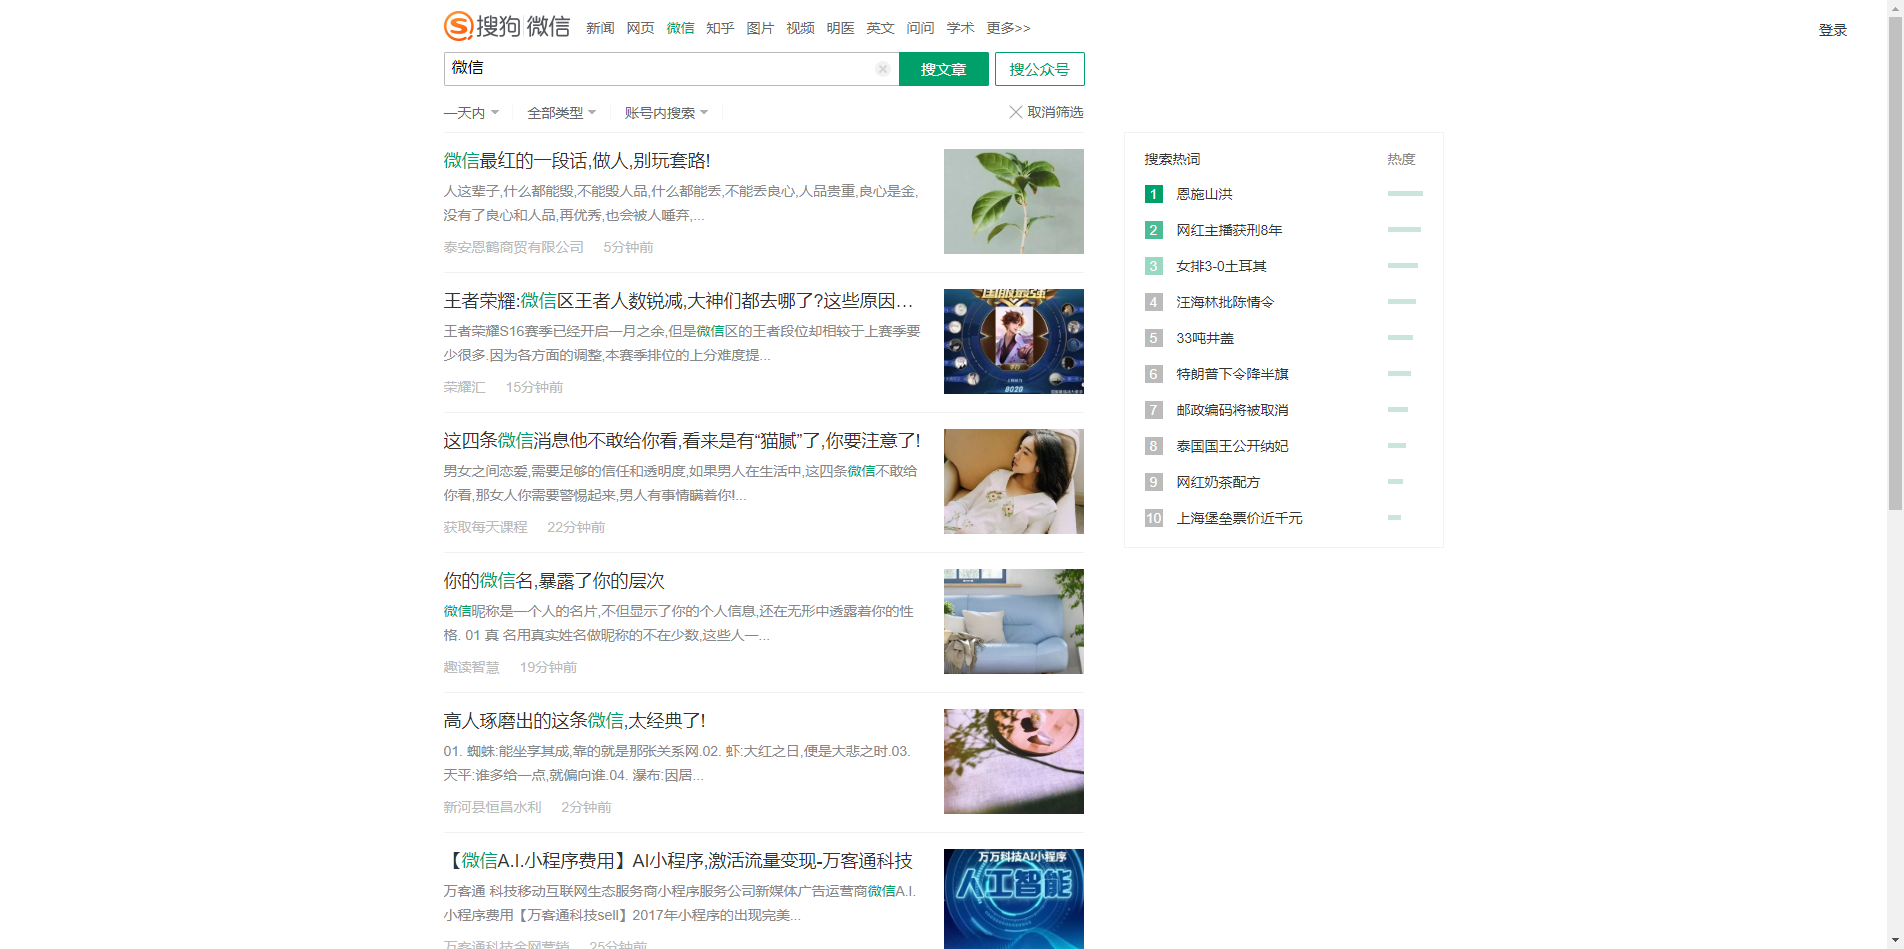
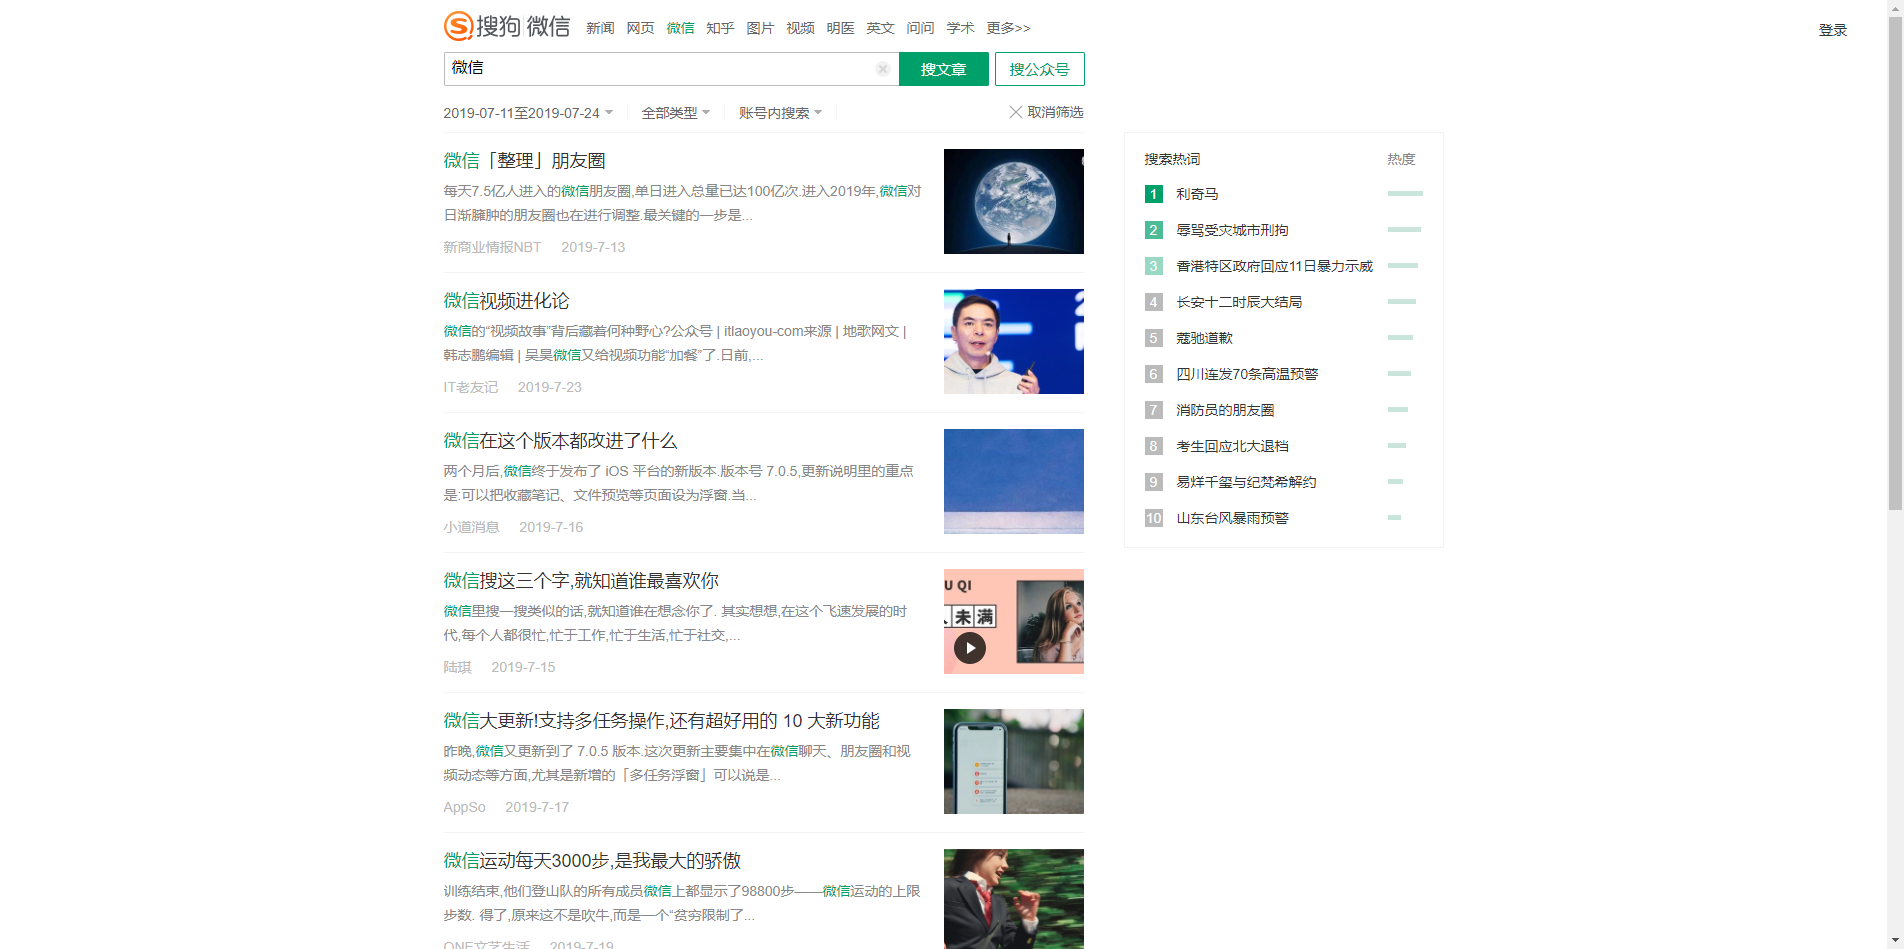
update

diff --git a/Test_Case/Test_Case_Search_Tools.py b/Test_Case/Test_Case_Search_Tools.py
@@ -59,35 +59,123 @@ class Test(unittest.TestCase):
                 # 展开时间搜索框
                 self.browser.find_element_by_xpath("//*[@id=\"time\"]").click()
                 time.sleep(1)
-                total = len(self.browser.find_elements_by_xpath("//*[@id=\"tool\"]/span[1]/div/descendant::a"))
-                j = random.randint(0, (total-1))
 
+                # 设定是选择非定义时间段还是选择自定义时间端，j = total-1为自定义，其它为非自定义
+                total = len(self.browser.find_elements_by_xpath("//*[@id=\"tool\"]/span[1]/div/descendant::a"))
+                # j = random.randint(0, (total-1))
+
+                j = total-1
                 if 0 <= j < (total-1):
                     # 选择非自定义时间段
                     self.browser.find_elements_by_xpath("//*[@id=\"tool\"]/span[1]/div/descendant::a")[j].click()
                     time.sleep(1)
 
                 elif j == (total-1):
-                    # 定义时间段： 最近一个月
-                    start_time =BasePage(self.browser)
-                    start_time.get_Every_Day(datetime.date.today() - relativedelta(months=1), datetime.date.today())
-                    date_list = start_time.get_Every_Day(datetime.date.today() - relativedelta(months=1), datetime.date.today())
-
+                    # 设定是输入还是选择，0为输入，1为选择
+                    # k = random.randint(0, 1)
+                    k = 1
                     try:
-                        # 输入自定义开始时间
-                        starttime = self.browser.find_element_by_xpath("//*[@id=\"date_start\"]")
-                        starttime.clear()
-                        starttime.send_keys(date_list[0])
+                        if k ==0:
+                            # 定义时间段： 最近一个月
+                            date_list = BasePage(self.browser)\
+                                .get_every_day(datetime.date.today() - relativedelta(months=1), datetime.date.today())
 
-                        # 输入自定义结束时间
-                        endtime = self.browser.find_element_by_xpath("//*[@id=\"date_end\"]")
-                        endtime.clear()
-                        endtime.send_keys(date_list[1])
+                            # 输入自定义开始时间
+                            starttime = self.browser.find_element_by_xpath("//*[@id=\"date_start\"]")
+                            starttime.clear()
+                            starttime.send_keys(date_list[0])
 
-                        # 点击确认按钮
-                        starttime.click()
-                        endtime.click()
-                        self.browser.find_elements_by_xpath("//*[@id=\"tool\"]/span[1]/div/descendant::a")[j].click()
+                            # 输入自定义结束时间
+                            endtime = self.browser.find_element_by_xpath("//*[@id=\"date_end\"]")
+                            endtime.clear()
+                            endtime.send_keys(date_list[1])
+
+                            # 点击确认按钮
+                            starttime.click()
+                            endtime.click()
+                            self.browser.find_elements_by_xpath("//*[@id=\"tool\"]/span[1]/div/descendant::a")[j]\
+                                .click()
+
+                        # 选择自定义时间
+                        elif k == 1:
+                            """自定义开始时间"""
+                            self.browser.find_element_by_xpath("//*[@id=\"date_start\"]").click()
+
+                            # 开始时间整个月份的xpath
+                            start_month = "/html/body/div[6]/div[2]/table/descendant::a"
+
+                            # 定义是否翻页(翻到上个月)，0为不翻页，1为翻页一次，2为翻页两次
+                            btn_prev_month = random.randint(0, 2)
+
+                            if btn_prev_month == 0:
+                                # 不翻页
+                                datelist = BasePage(self.browser).select_every_day(start_month)
+
+                                w = random.randint(0, len(datelist[1])-1)
+                                self.browser.find_elements_by_xpath(start_month)[w].click()
+
+                            elif btn_prev_month == 1:
+                                # 翻到上个月
+                                self.browser.find_element_by_xpath("/html/body/div[6]/div[1]/a[1]").click()
+                                datelist = BasePage(self.browser).select_every_day(start_month)
+
+                                w = random.randint(0, len(datelist[0])-1)
+                                self.browser.find_elements_by_xpath(start_month)[w].click()
+                                # 翻页之后，复位
+                                self.browser.find_element_by_xpath("/html/body/div[6]/div[1]/a[2]").click()
+
+                            elif btn_prev_month == 2:
+                                # 翻到上上月
+                                BasePage(self.browser).double_click("/html/body/div[6]/div[1]/a[1]")
+
+                                datelist = BasePage(self.browser).select_every_day(start_month)
+
+                                w = random.randint(0, len(datelist[0])-1)
+                                self.browser.find_elements_by_xpath(start_month)[w].click()
+                                # 翻页之后，复位
+                                BasePage(self.browser).double_click("/html/body/div[6]/div[1]/a[2]")
+
+                            """自定义结束时间"""
+                            self.browser.find_element_by_xpath("//*[@id=\"date_end\"]").click()
+
+                            # 结束时间整个月份的xpath
+                            end_month = "/html/body/div[7]/div[2]/table/descendant::a"
+
+                            # 定义是否翻页(翻到上个月)，0为不翻页，1为翻页一次，2为翻页两次
+                            btn_prev_month_end = random.randint(0, 2)
+
+                            if btn_prev_month_end == 0:
+                                # 不翻页
+                                datelist = BasePage(self.browser).select_every_day(end_month)
+
+                                w = random.randint(0, len(datelist[1])-1)
+                                self.browser.find_elements_by_xpath(end_month)[w].click()
+
+                            elif btn_prev_month_end == 1:
+                                # 翻到上个月
+                                self.browser.find_element_by_xpath("/html/body/div[7]/div[1]/a[1]").click()
+
+                                datelist = BasePage(self.browser).select_every_day(end_month)
+
+                                w = random.randint(0, len(datelist[0])-1)
+                                self.browser.find_elements_by_xpath(end_month)[w].click()
+                                # 翻页之后，复位
+                                self.browser.find_element_by_xpath("/html/body/div[7]/div[1]/a[2]").click()
+
+                            elif btn_prev_month_end == 2:
+                                # 翻到上上月
+                                BasePage(self.browser).double_click("/html/body/div[7]/div[1]/a[1]")
+
+                                datelist = BasePage(self.browser).select_every_day(end_month)
+
+                                w = random.randint(0, len(datelist[0])-1)
+                                self.browser.find_elements_by_xpath(end_month)[w].click()
+                                # 翻页之后，复位
+                                BasePage(self.browser).double_click("/html/body/div[7]/div[1]/a[2]")
+
+                            # 点击确认按钮
+                            self.browser.find_elements_by_xpath("//*[@id=\"tool\"]/span[1]/div/descendant::a")[j]\
+                                .click()
 
                     except ElementNotVisibleException:
                         # 如果开始时间大于结束时间，本次循环结束，进入下次循环
@@ -179,7 +267,7 @@ class Test(unittest.TestCase):
                 self.browser.find_element_by_xpath("//*[@id=\"search\"]").click()
                 search_tool = self.browser.find_element_by_xpath("//*[@id=\"tool\"]/span[5]/div/form/span/input")
                 search_tool.clear()
-                
+
             except ElementNotVisibleException:
                 print(self.browser.find_element_by_xpath("//*[@id=\"tool\"]/span[5]/div/form/p").text)
                 continue

diff --git a/Test_Case/Test_Case_WeChat_Search.py b/Test_Case/Test_Case_WeChat_Search.py
@@ -95,8 +95,7 @@ class Test(unittest.TestCase):
             self.browser.find_elements_by_xpath("//*[@id=\"topwords\"]/descendant::a")[j].click()
             self.save_img('点击top榜单话题随机检索')
             # 关闭页面
-            page_close = BasePage(self.browser)
-            page_close.close_page()
+            BasePage(self.browser).close_page()
 
     @BeautifulReport.add_test_img('切换tab检索', '切换更多tab检索')
     def test_tab_select_search(self):
@@ -108,9 +107,7 @@ class Test(unittest.TestCase):
                 self.save_img('切换tab检索')
             elif 11 < j < 20:
                 # 更多
-                xpath = "//*[@id=\"more_anchor\"]"
-                show_more =BasePage(self.browser)
-                show_more.move_to_element(xpath)
+                BasePage(self.browser).move_to_element("//*[@id=\"more_anchor\"]")
                 self.browser.find_elements_by_xpath("//*[@id=\"type_tab\"]/descendant::a")[j].click()
                 self.save_img('切换更多tab检索')
 
@@ -125,8 +122,7 @@ class Test(unittest.TestCase):
                 time.sleep(3)
                 self.save_img('滚动图片选择检索')
                 # 关闭页面
-                page_close = BasePage(self.browser)
-                page_close.close_page()
+                BasePage(self.browser).close_page()
             except WebDriverException:
                 self.browser.find_element_by_xpath("//*[@id=\"loginWrap\"]/div[4]/div[1]/div[1]/div/a[7]").click()
                 time.sleep(1)
@@ -159,8 +155,7 @@ class Test(unittest.TestCase):
             time.sleep(3)
             self.save_img('查看文章详情')
             # 关闭页面
-            page_close = BasePage(self.browser)
-            page_close.close_page()
+            BasePage(self.browser).close_page()
             try:
                 # 查看更多
                 self.browser.find_element_by_xpath("//*[@id=\"look-more\"]/span").click()

diff --git a/common/Selenium_Other.py b/common/Selenium_Other.py
@@ -18,6 +18,11 @@ class BasePage(object):
         element = self.browser.find_element_by_xpath(loc)
         ActionChains(self.browser).move_to_element(element).perform()
 
+    def double_click(self, loc):
+        """鼠标双击"""
+        element1 = self.browser.find_element_by_xpath(loc)
+        ActionChains(self.browser).double_click(element1).perform()
+
     def close_page(self):
         """关闭新打开的页面"""
         handles = self.browser.window_handles
@@ -29,8 +34,8 @@ class BasePage(object):
         self.browser.switch_to.window(handles[0])
         time.sleep(1)
 
-    def get_Every_Day(self, begin_date, end_date):
-        """设置检索时间"""
+    def get_every_day(self, begin_date, end_date):
+        """设置输入检索时间"""
         date_list = []
         begin_date = str(begin_date)
         end_date = str(end_date)
@@ -43,4 +48,18 @@ class BasePage(object):
         i = random.randint(0, (len(date_list)-1))
         j = random.randint(0, (len(date_list) - 1))
         return date_list[i], date_list[j]
+
+    def select_every_day(self, loc):
+        """设置选择检索时间"""
+        # 获取当月天数
+        date_total = len(self.browser.find_elements_by_xpath(loc))
+        datelist = []
+        datelists = []
+        for q in range(0, date_total):
+            datelist.append(self.browser.find_elements_by_xpath(loc)[q].get_attribute('text'))
+        # 去掉当月的未来时间
+        for w in range(0, len(datelist)):
+            if int(datelist[w]) <= int(time.strftime('%d', time.localtime())):
+                datelists.append(datelist[w])
+        return datelist, datelists
 
